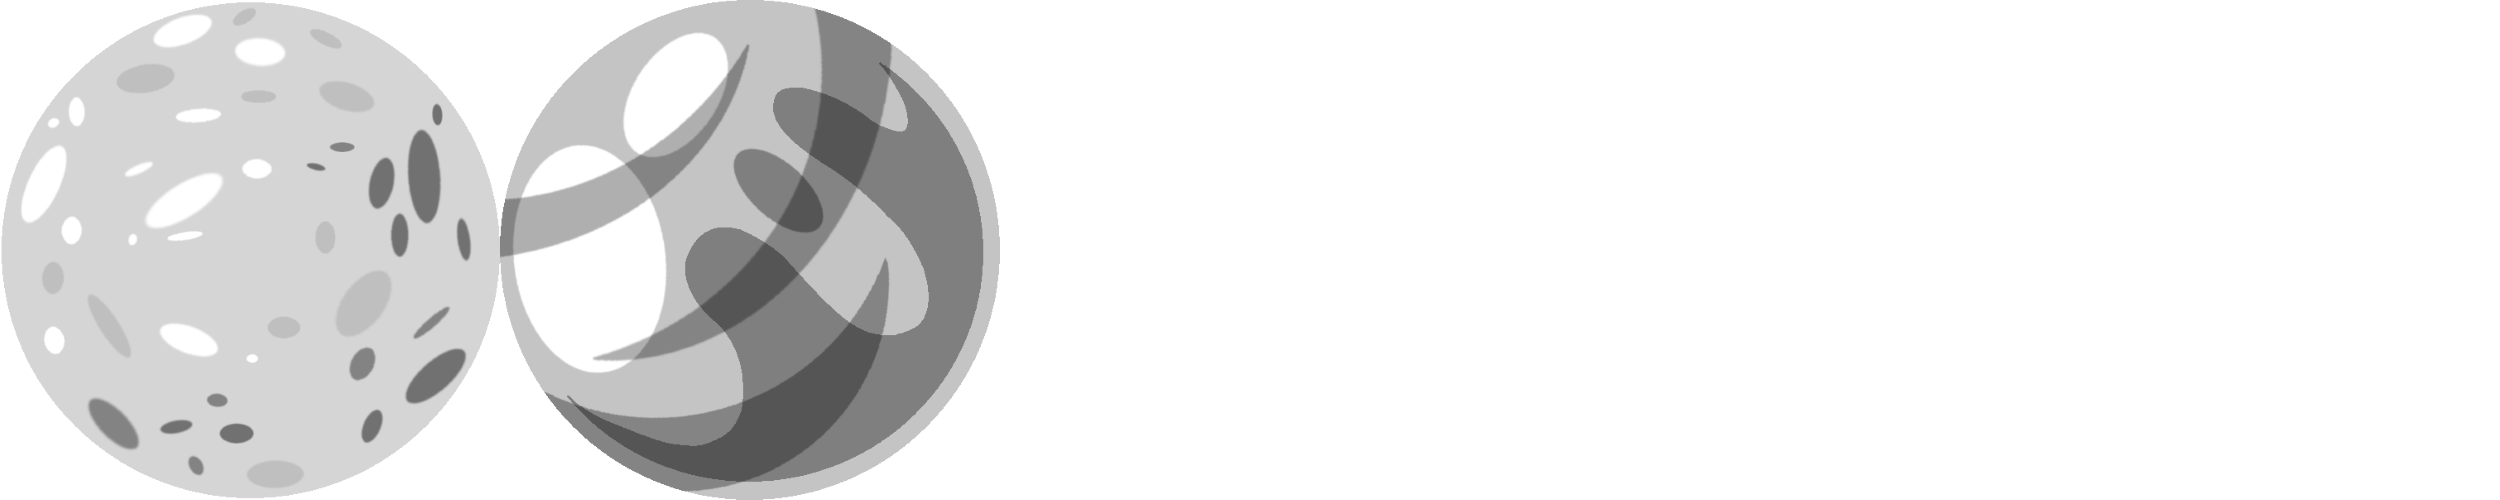
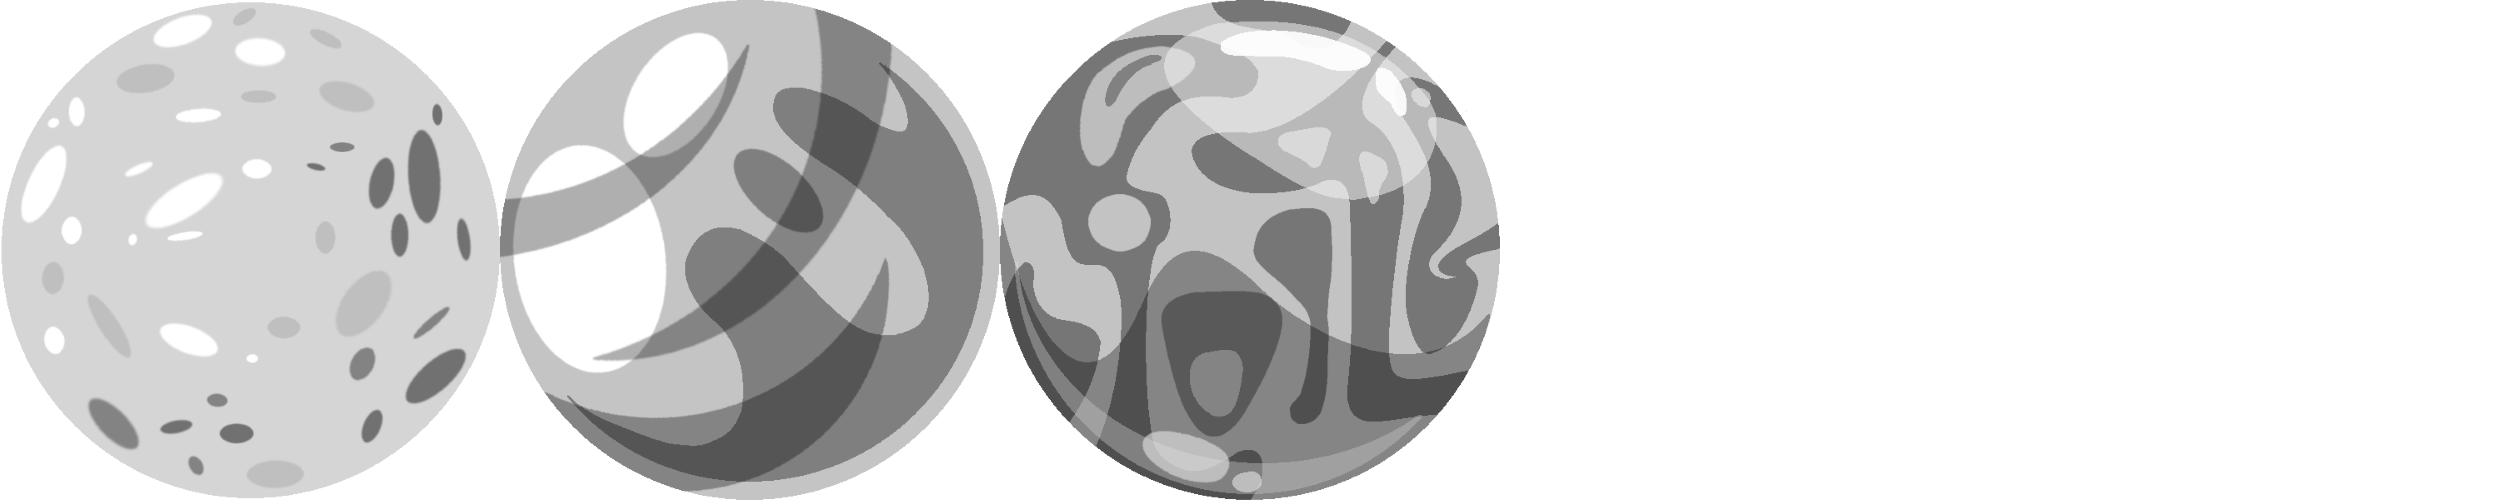
Updated asteroid generator and added planet3 to spritesheet
Asteroid generator works much better now but it is not complete yet.

Changed region(s): [[0.3744, 0.0, 0.624, 1.0]]

diff --git a/scripts/play/asteroid.js b/scripts/play/asteroid.js
@@ -1,10 +1,14 @@
 // 
 
-var asteroids;
+const spawnCount = 12;
 
-var createAsteroids = function () 
+var asteroids = {
+    count: 0
+}
+
+// Creates and setups all astroid at center of the screen and hides them
+function createAsteroids() 
 {
-    let spawnCount = 16;
     for (let i = 0; i < spawnCount; i++) 
     {    
         let asteroid = game.add.sprite(game.world.centerX, game.world.centerY, 'asteroid');
@@ -12,21 +16,20 @@ var createAsteroids = function ()
         asteroid.visible = false;
         asteroids.add(asteroid);
     }
+    asteroids.count = 5;
 }
 
-var generateAsteroids = function()
+// "Generates" asteroids by changing their parameters
+function generateAsteroids()
 {
-    // Determine number of asteroids
-    let numOfAsteroids = 0;
-
-    if (current.level <= 50)
-        numOfAsteroids = 5 + Math.floor(current.level / 5); 
-    else
-        numOfAsteroids = 16;
+    // Increease number of asteroids
+    if (current.level % 6 == 0 && asteroids.count < spawnCount)
+        asteroids.count++;
 
     // Redistribute them around planet
     let currentAngle = -80, nextAngle = 40;
-    let positions = generatePositions(numOfAsteroids);
+    let positions = generatePositions();
+    console.log(positions);
     let currentAsteroid = 0;
 
     for (let i = 0; i < 16; i++) 
@@ -35,12 +38,14 @@ var generateAsteroids = function()
             currentAngle = Phaser.Math.wrapAngle(currentAngle + nextAngle);
 
         if(positions[currentAsteroid] == i) {
-            let angleOffset = Math.floor((Math.random() * 3) - 1);
-            let radians = Phaser.Math.degToRad(currentAngle + angleOffset);
-            
             let asteroid = asteroids.getChildAt(currentAsteroid);
 
-            let currentOffset = (planet.width + 15 + 20) / 2 + 
+            let angleOffset = Math.floor((Math.random() * 3) - 1);
+            let radians = Phaser.Math.degToRad(currentAngle + angleOffset);
+
+            let radius = Math.floor((Math.random() * 11) + 15);
+
+            let currentOffset = (planet.width + 15 + radius) / 2 + 
             Math.floor(Math.random() * (outerOrbitOffset + 1));
 
             let spawnPointX = planet.x + currentOffset * Math.cos(radians);
@@ -49,8 +54,6 @@ var generateAsteroids = function()
             let angle = Math.floor((Math.random() * 361) - 180);
 
             let tint = Math.random() * 0xffffff;
-
-            radius = Math.floor((Math.random() * 5) + 18);
             
             asteroid.x = spawnPointX;
             asteroid.y = spawnPointY;
@@ -65,33 +68,32 @@ var generateAsteroids = function()
     }
 }
 
-var generatePositions = function(numOfAsteroids){
-    let weightArray = Array.from({length: 16}, () => Math.random());
-    
-    let indexArray = [];
-  
-    if (numOfAsteroids < 9)
-      for(let i = 0; i < numOfAsteroids; i++)
-        indexArray[i] = indexOfMax(weightArray, 2);
+function generatePositions()
+{
+    let arr = [];
+
+    if (asteroids.count < 8)
+        for (let i = 0; i < 8; i++)
+            arr[i] = i * 2;
     else
-      for(let i = 0; i < numOfAsteroids; i++)
-        indexArray[i] = indexOfMax(weightArray, 1);
-  
-    indexArray.sort((a, b) => a - b);
-    return indexArray;
-}
+        for (let i = 0; i < 16; i++)
+            arr[i] = i;
 
-var indexOfMax = function(arr, inc) {
-    let max = arr[0];
-    let maxIndex = 0;
-
-    for (let i = 0; i < arr.length; i += inc) {
-        if (arr[i] > max) {
-            maxIndex = i;
-            max = arr[i];
-        }
-    }
+    // Fisher–Yates Shuffle
+    let i = arr.length, j = 0, temp;
     
-    arr[maxIndex] = 0;
-    return maxIndex;
+    while (i--) 
+    {
+        j = Math.floor(Math.random() * (i+1));
+
+        // Swap randomly chosen element with current element
+        temp = arr[i];
+        arr[i] = arr[j];
+        arr[j] = temp;
+    }
+
+    arr = arr.slice(0, asteroids.count);
+
+    arr.sort((a, b) => a - b);
+    return arr;
 }

diff --git a/scripts/play/planet.js b/scripts/play/planet.js
@@ -18,7 +18,7 @@ var planet = {
 
 }
 
-var generatePlanet = function() 
+function generatePlanet() 
 {
     // Frame selection from spritesheet
     let frame = Math.floor((Math.random() * (planetsCount + 1)));

diff --git a/scripts/load.js b/scripts/load.js
@@ -1,6 +1,6 @@
 // This is responsible for loading all assets and setting active state to menu.
 
-const planetsCount = 2;
+const planetsCount = 3;
 
 var loadState = {
     
